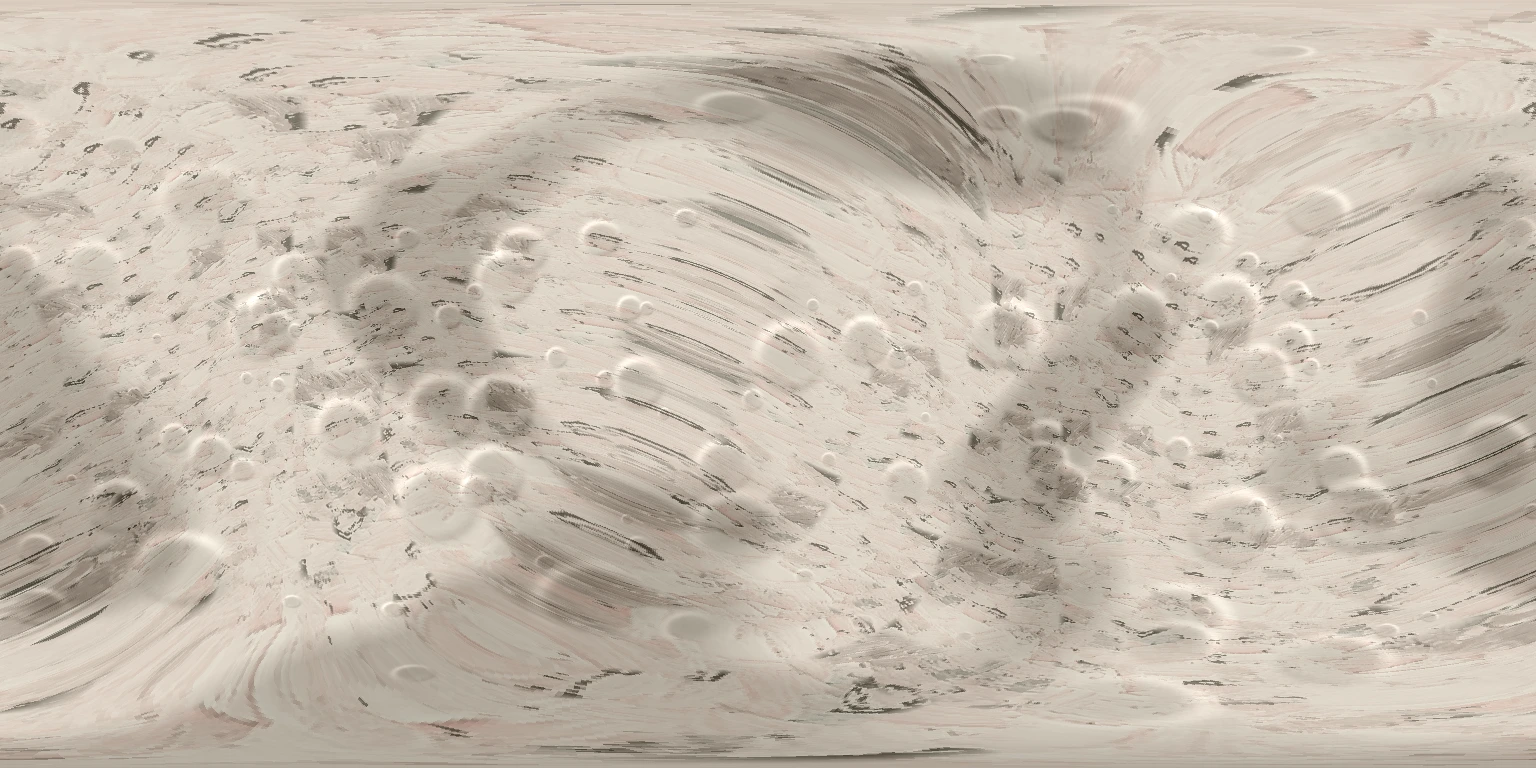
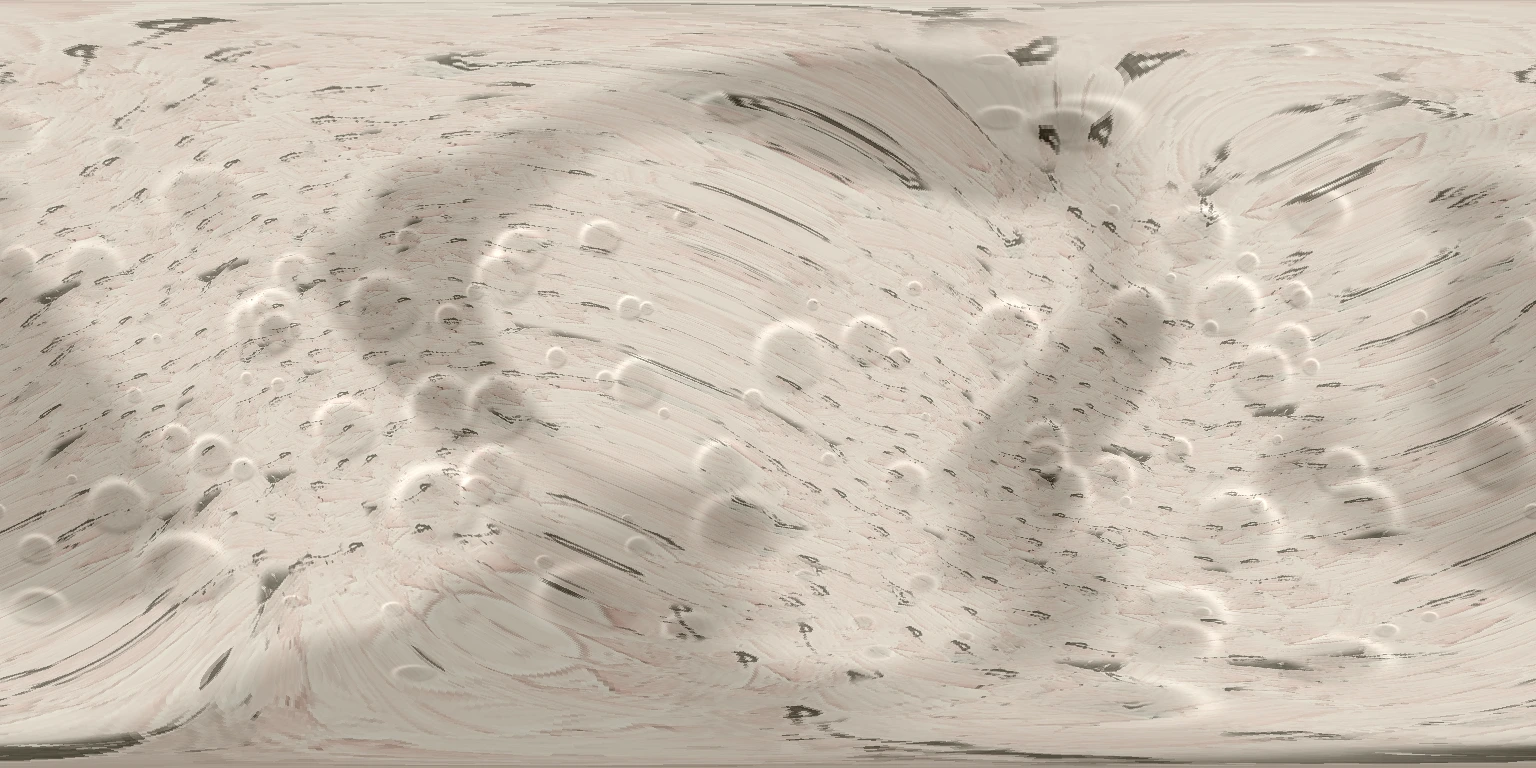
Remove the illustration border from the 3D lunar landscape

diff --git a/src/graphics/lunar-scene.ts b/src/graphics/lunar-scene.ts
@@ -38,14 +38,15 @@ function surface(x: number, z: number, ny: number) {
   const soil=T.MathUtils.lerp(-.024, slope, T.MathUtils.smoothstep(distance,.78,1.48))+craterRelief(x,z);
   if(z>-.80 || x< -2.30 || x>3.63)return soil;
   const cap=ridgeTop(x,z)-.085;
-  return T.MathUtils.lerp(soil,Math.min(soil,cap),ridgeWeight(x)*(1-T.MathUtils.smoothstep(z,-1.45,-.80)));
+  const shoulder=ridgeWeight(x);
+  const base=T.MathUtils.lerp(soil,Math.min(soil,cap),shoulder*(1-T.MathUtils.smoothstep(z,-1.45,-.80)));
+  const crest=shoulder*(1-T.MathUtils.smoothstep(Math.abs(z-ridgeZ),0,ridgeWidth));
+  return T.MathUtils.lerp(base,ridgeTop(x,z),crest);
 }
 export function groundHeight(x: number, z: number) {
   const r = 1 - (x / lunarRadius) ** 2 - ((z - terrainCentreZ) / lunarRadius) ** 2;
   if(r<0)return -4;
-  const soil=surface(x,z,Math.sqrt(r));
-  const falloff=1-T.MathUtils.smoothstep(Math.abs(z-ridgeZ),0,ridgeWidth);
-  return falloff>0?T.MathUtils.lerp(soil,ridgeTop(x,z),falloff*ridgeWeight(x)):soil;
+  return surface(x,z,Math.sqrt(r));
 }
 // Ambient light is occluded most strongly where the pack, seat, and boot
 // soles touch the soil. The direct solar shadow is still cast by their meshes.
@@ -74,36 +75,11 @@ function contactMap() {
   map.channel = 1;
   return map;
 }
-// The portrait projects soil onto the landing site from one direction.
-// From the side, use the painting's grain in ground coordinates to keep its
-// texels at the same physical size across the shelf and the ridge.
-function paintGround(material:T.MeshBasicMaterial|T.MeshLambertMaterial, grain:T.CanvasTexture, globe?:T.Texture) {
-  material.onBeforeCompile=shader=>{
-    shader.uniforms.groundGrain={value:grain};
-    shader.uniforms.paintAxis={value:paintingPoint(436,1036,1)};
-    if(globe)shader.uniforms.orbitalMap={value:globe};
-    const varyings="varying vec2 soilUV; varying float grainWeight;"+
-      (globe?"varying vec2 globeUV; varying float landingCoverage;":"");
-    shader.vertexShader=shader.vertexShader.replace("#include <common>",
-      "#include <common>\nuniform vec3 paintAxis; "+varyings+
-      (globe?"attribute vec2 lunarUV; attribute float localCoverage;":""))
-      .replace("#include <uv_vertex>",`#include <uv_vertex>
-        soilUV=position.xz/${grain.image.width*scale};
-        grainWeight=1.0-smoothstep(.08,.34,abs(dot(normalize(normal),paintAxis)));
-        ${globe?"globeUV=lunarUV;landingCoverage=localCoverage;":""}`);
-    shader.fragmentShader=shader.fragmentShader.replace("#include <common>",
-      "#include <common>\nuniform sampler2D groundGrain; "+varyings+
-      (globe?"uniform sampler2D orbitalMap;":""))
-      .replace("#include <map_fragment>",`
-        vec4 soil=texture2D(map,vMapUv);
-        soil=mix(soil,texture2D(groundGrain,soilUV),grainWeight*.93);
-        diffuseColor*=${globe?"mix(texture2D(orbitalMap,globeUV),soil,landingCoverage)":"soil"};`);
-  };
-}
-function terrain(map:T.Texture, orbitalMap:T.Texture, grain:T.CanvasTexture) {
-  const geo = new T.SphereGeometry(1, 192, 112);
-  const p = geo.attributes.position, uv = geo.attributes.uv;
-  geo.setAttribute("lunarUV",uv.clone());
+// Sample pigment at the same physical scale on flats and slopes. Neither the
+// camera direction nor the outline of the source sheet is a texture coordinate.
+function terrain(map:T.Texture<HTMLImageElement>, orbitalMap:T.Texture) {
+  const geo = new T.SphereGeometry(1,256,160);
+  const p = geo.attributes.position;
   const coverage=new Float32Array(p.count);
   const mineralColors = new Float32Array(p.count * 3);
   const contactUV = new Float32Array(p.count * 2);
@@ -117,16 +93,30 @@ function terrain(map:T.Texture, orbitalMap:T.Texture, grain:T.CanvasTexture) {
     mineralColors.set([tone,tone,tone*(1-.15*relief)],3*i);
     contactUV[2*i]=(x+2)/4;
     contactUV[2*i+1]=1-(z+2)/4;
-    const px = 436 + x / scale;
-    const py = 1036 - (y * Math.cos(elevation) - z * Math.sin(elevation)) / scale;
-    uv.setXY(i,(px+650)/2400,1-(py-400)/1150);
   }
   geo.setAttribute("color",new T.BufferAttribute(mineralColors,3));
   geo.setAttribute("uv1",new T.BufferAttribute(contactUV,2));
   geo.computeVertexNormals();
   geo.setAttribute("localCoverage",new T.BufferAttribute(coverage,1));
   const material=new T.MeshLambertMaterial({map,aoMap:contactMap(),vertexColors:true});
-  paintGround(material,grain,orbitalMap);
+  material.onBeforeCompile=shader=>{
+    shader.uniforms.orbitalMap={value:orbitalMap};
+    const varyings="varying vec3 groundPoint; varying vec3 groundNormal; varying float landingCoverage;";
+    shader.vertexShader=shader.vertexShader.replace("#include <common>",
+      "#include <common>\nattribute float localCoverage; "+varyings)
+      .replace("#include <uv_vertex>",`#include <uv_vertex>
+        groundPoint=position;groundNormal=normal;landingCoverage=localCoverage;`);
+    shader.fragmentShader=shader.fragmentShader.replace("#include <common>",
+      "#include <common>\nuniform sampler2D orbitalMap; "+varyings)
+      .replace("#include <map_fragment>",`
+        vec3 w=pow(abs(normalize(groundNormal)),vec3(4.0));
+        w/=dot(w,vec3(1.0));
+        vec2 span=vec2(${map.image.width*scale},${map.image.height*scale});
+        vec4 soil=texture2D(map,groundPoint.zy/span)*w.x
+                 +texture2D(map,groundPoint.xz/span)*w.y
+                 +texture2D(map,groundPoint.xy/span)*w.z;
+        diffuseColor*=mix(texture2D(orbitalMap,vMapUv),soil,landingCoverage);`);
+  };
   const floor = new T.Mesh(geo,material);
   floor.userData.lunarGround=true;
   floor.receiveShadow = true;
@@ -135,14 +125,15 @@ function terrain(map:T.Texture, orbitalMap:T.Texture, grain:T.CanvasTexture) {
 
 export async function createLunarScene() {
   const loader = new T.TextureLoader();
-  async function texture(name: string) {
-    const map = await loader.loadAsync("/assets/models/lunar/"+name+".webp");
+  async function texture(name: string, revision="") {
+    const map = await loader.loadAsync("/assets/models/lunar/"+name+".webp"+revision);
     map.colorSpace = T.SRGBColorSpace;
     map.anisotropy = 4;
     return map;
   }
+  const surfaceRevision="?v=2";
   const [frog,earthMap,moonMap,soil,paper,starMap,orbitalSoil,sheet] = await Promise.all([
-    loadAstronaut(),texture("earth"),texture("moon"),texture("regolith"),texture("paper"),texture("stars"),texture("lunar-surface"),texture("pigments"),
+    loadAstronaut(),texture("earth",surfaceRevision),texture("moon"),texture("regolith",surfaceRevision),texture("paper",surfaceRevision),texture("stars"),texture("lunar-surface",surfaceRevision),texture("pigments"),
   ]);
   const paints=readReferencePaints(sheet);
   const scene = new T.Scene();
@@ -159,35 +150,27 @@ export async function createLunarScene() {
   const moon = globe(moonMap,250,289,-4.6,84);
   paper.wrapS = paper.wrapT = T.MirroredRepeatWrapping;
   const sky=new T.SphereGeometry(48,96,64);
-  const skyPoints=sky.attributes.position, skyUV=sky.attributes.uv;
-  for(let i=0;i<skyPoints.count;i++){
-    const x=436+skyPoints.getX(i)/scale;
-    const y=1036-(skyPoints.getY(i)*Math.cos(elevation)-skyPoints.getZ(i)*Math.sin(elevation))/scale;
-    skyUV.setXY(i,x/1254,1-y/1254);
-  }
-  const paperSky=new T.Mesh(sky,new T.MeshBasicMaterial({map:paper,side:T.BackSide}));
+  // Use three surface projections so the paper grain keeps its scale when
+  // looking sideways or toward a pole.
+  const skyPaint=new T.MeshBasicMaterial({map:paper,side:T.BackSide});
+  skyPaint.onBeforeCompile=shader=>{
+    shader.vertexShader=shader.vertexShader.replace("#include <common>","#include <common>\nvarying vec3 skyPoint;")
+      .replace("#include <begin_vertex>","#include <begin_vertex>\nskyPoint=position;");
+    shader.fragmentShader=shader.fragmentShader.replace("#include <common>","#include <common>\nvarying vec3 skyPoint;")
+      .replace("#include <map_fragment>",`
+        vec3 weights=pow(abs(normalize(skyPoint)),vec3(4.0));
+        weights/=dot(weights,vec3(1.0));
+        vec3 p=skyPoint/${paper.image.width*scale};
+        diffuseColor*=texture2D(map,p.zy)*weights.x
+                    + texture2D(map,p.xz)*weights.y
+                    + texture2D(map,p.xy)*weights.z;`);
+  };
+  const paperSky=new T.Mesh(sky,skyPaint);
   paperSky.userData.paperSky=true;scene.add(paperSky);
   soil.wrapS = soil.wrapT = T.MirroredRepeatWrapping;
-  scene.add(terrain(soil,orbitalSoil,paints.soil));
+  scene.add(terrain(soil,orbitalSoil));
   const lunarCentre=new T.Object3D();
   lunarCentre.position.set(0,-lunarRadius,terrainCentreZ);scene.add(lunarCentre);
-  // A narrow ridge carries the irregular silhouette and the paint on both slopes.
-  const ridge=new T.PlaneGeometry(1,1,420,16);
-  const rp=ridge.attributes.position,ru=ridge.attributes.uv;
-  for(let i=0;i<rp.count;i++){
-    const x=T.MathUtils.lerp(-2.30,3.63,ru.getX(i)),z=ridgeZ+(1-2*ru.getY(i))*ridgeWidth;
-    const y=groundHeight(x,z)-.003;
-    rp.setXYZ(i,x,y,z);
-    const px=436+x/scale,py=1036-(y*Math.cos(elevation)-z*Math.sin(elevation))/scale;
-    ru.setXY(i,(px+650)/2400,1-(py-400)/1150);
-  }
-  ridge.computeVertexNormals();
-  const ridgePaint=new T.MeshBasicMaterial({map:soil});
-  paintGround(ridgePaint,paints.soil);
-  const ridgeMesh=new T.Mesh(ridge,ridgePaint);
-  ridgeMesh.userData.lunarGround=true;
-  scene.add(ridgeMesh);
-
   let state=24951;
   const rand=()=> (state=(Math.imul(state,1664525)+1013904223)>>>0)/4294967296;
   const marker = new T.Object3D();

diff --git a/src/graphics/scene-ink.ts b/src/graphics/scene-ink.ts
@@ -12,7 +12,6 @@ export function createSceneInk(scene:T.Scene, renderer:T.WebGLRenderer) {
     figure ||= node.userData.astronaut===true;
     if(node instanceof T.Mesh){
       const mesh=node;
-      // The ridge and the sphere are two meshes of the same lunar surface.
       const id=figure?65535:mesh.userData.lunarGround?65534:mesh.userData.paperSky?0:nextId;
       nextId+=mesh instanceof T.InstancedMesh?mesh.instanceMatrix.count:1;
       function maskFor(original:T.Material) {
